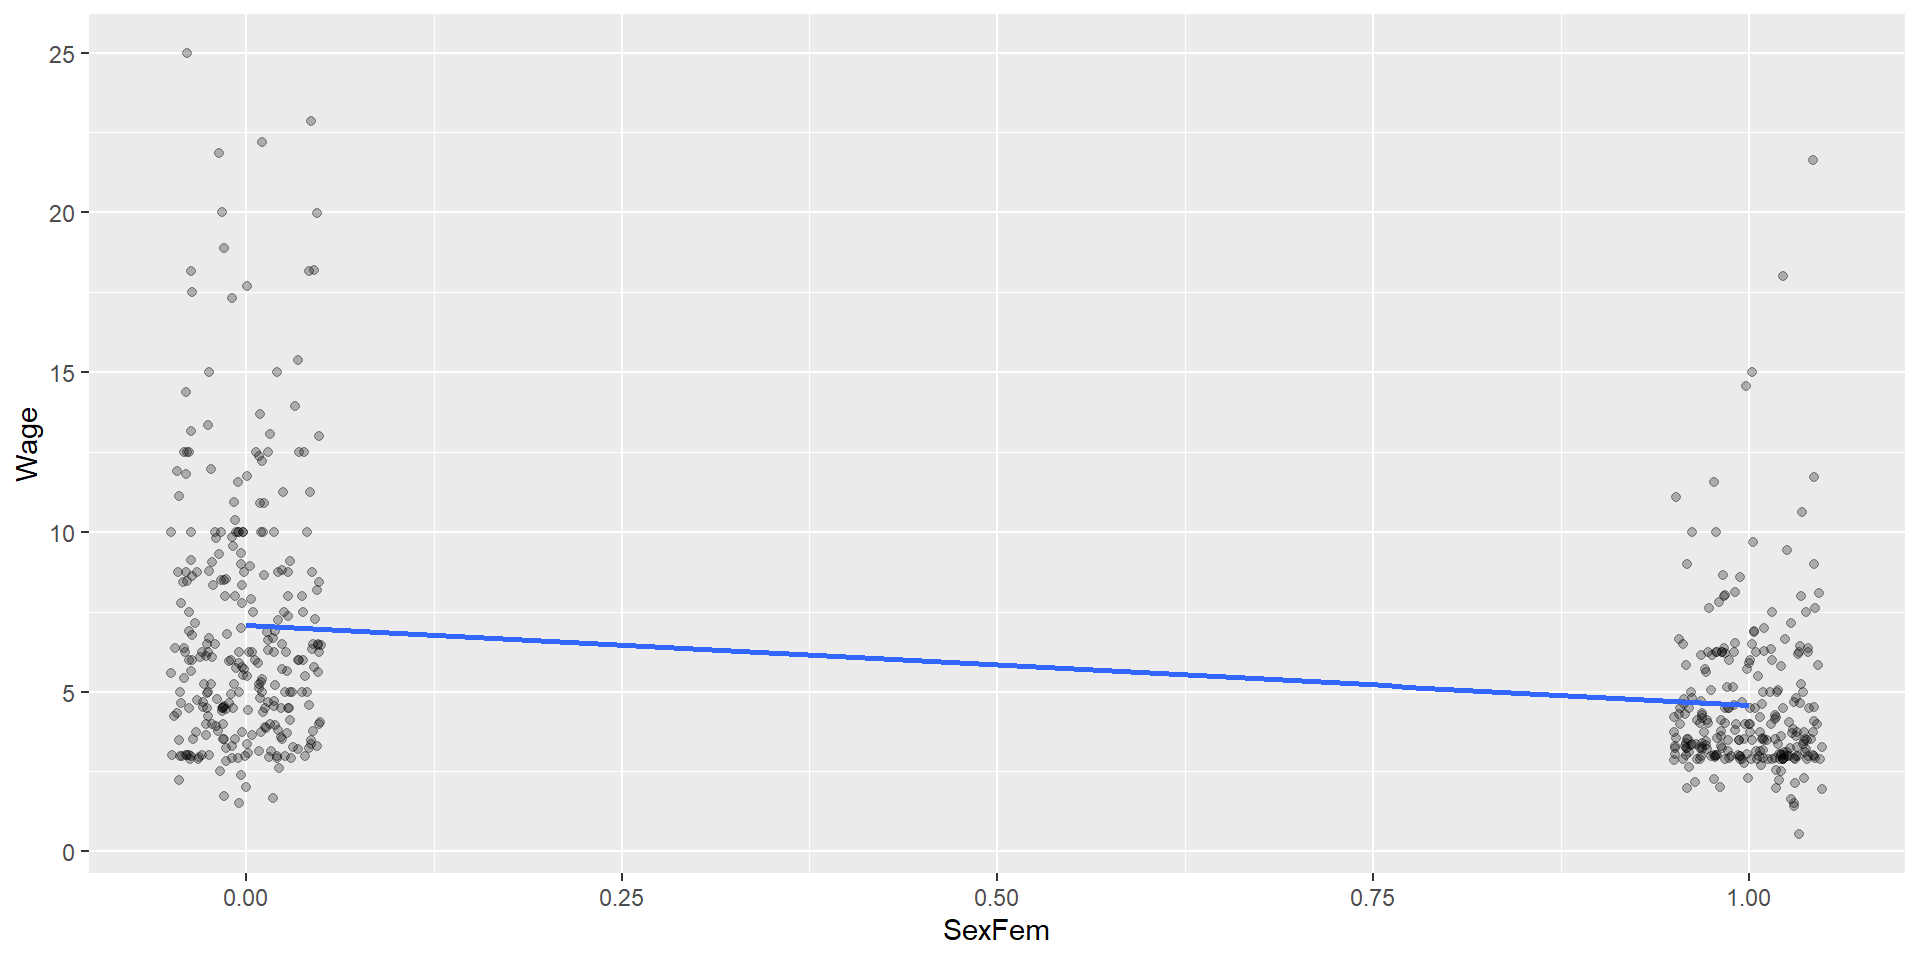
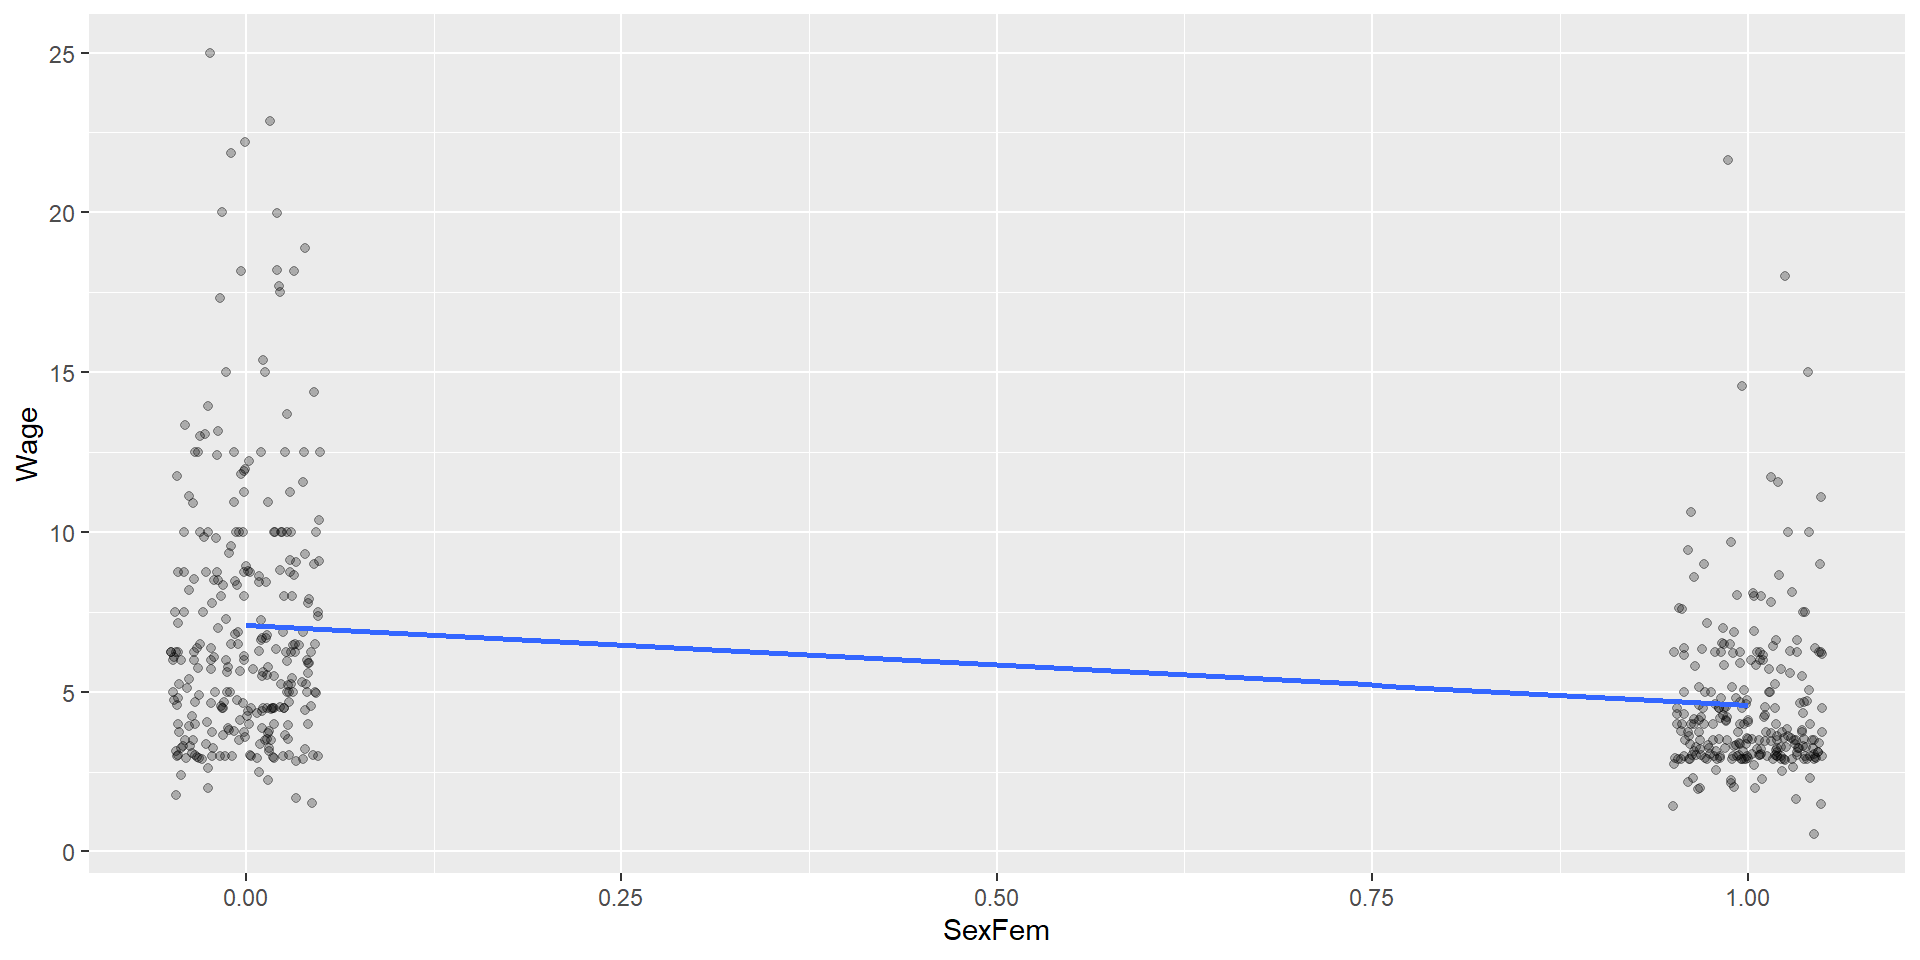
Linear Regression IBM adjusted for univar

diff --git a/LinRegrDummiesIBM/LinRegrDummiesIBM.html b/LinRegrDummiesIBM/LinRegrDummiesIBM.html
@@ -307,6 +307,7 @@
     }
     .reveal .slide:not(.center) {
       height: 100%;
+      overflow-y: auto;
     }
     .reveal .slide.scrollable {
       overflow-y: auto;
@@ -512,12 +513,25 @@
 
 </div>
 <img data-src="LinRegrDummiesIBM_files/figure-revealjs/unnamed-chunk-7-1.png" width="960" class="r-stretch"></section>
+<section id="plotting-the-data-with-regression-line-1" class="slide level2">
+<h2>Plotting the Data with Regression Line</h2>
+<div class="cell">
+<details>
+<summary>Code</summary>
+<div class="sourceCode cell-code" id="cb9"><pre class="sourceCode numberSource r number-lines code-with-copy"><code class="sourceCode r"><span id="cb9-1"><a href="#cb9-1"></a><span class="fu">library</span>(tidyverse)</span>
+<span id="cb9-2"><a href="#cb9-2"></a><span class="fu">ggplot</span>(DataWage, <span class="fu">aes</span>(<span class="at">x=</span>SexFem, <span class="at">y=</span>Wage))<span class="sc">+</span></span>
+<span id="cb9-3"><a href="#cb9-3"></a>  <span class="fu">geom_point</span>()<span class="sc">+</span></span>
+<span id="cb9-4"><a href="#cb9-4"></a>  <span class="fu">geom_smooth</span>(<span class="at">method =</span> <span class="st">"lm"</span>, <span class="at">se=</span><span class="cn">FALSE</span>)</span></code><button title="Copy to Clipboard" class="code-copy-button"><i class="bi"></i></button></pre></div>
+</details>
+
+</div>
+<img data-src="LinRegrDummiesIBM_files/figure-revealjs/unnamed-chunk-8-1.png" width="960" class="r-stretch"></section>
 <section id="regression-sex-discrimination" class="title-slide slide level1 center">
 <h1>Regression Sex Discrimination</h1>
 <div class="cell">
 <details>
 <summary>Code</summary>
-<div class="sourceCode cell-code" id="cb9"><pre class="sourceCode numberSource r number-lines code-with-copy"><code class="sourceCode r"><span id="cb9-1"><a href="#cb9-1"></a><span class="fu">lm</span>(Wage <span class="sc">~</span> SexFem, <span class="at">data=</span>DataWage)</span></code><button title="Copy to Clipboard" class="code-copy-button"><i class="bi"></i></button></pre></div>
+<div class="sourceCode cell-code" id="cb10"><pre class="sourceCode numberSource r number-lines code-with-copy"><code class="sourceCode r"><span id="cb10-1"><a href="#cb10-1"></a><span class="fu">lm</span>(Wage <span class="sc">~</span> SexFem, <span class="at">data=</span>DataWage)</span></code><button title="Copy to Clipboard" class="code-copy-button"><i class="bi"></i></button></pre></div>
 </details>
 <div class="cell-output cell-output-stdout">
 <pre><code>
@@ -548,9 +562,9 @@ Coefficients:
 <div class="cell">
 <details>
 <summary>Code</summary>
-<div class="sourceCode cell-code" id="cb11"><pre class="sourceCode numberSource r number-lines code-with-copy"><code class="sourceCode r"><span id="cb11-1"><a href="#cb11-1"></a><span class="fu">library</span>(rio)</span>
-<span id="cb11-2"><a href="#cb11-2"></a>DataObserv<span class="ot">=</span><span class="fu">import</span>(<span class="st">"../DataObservAndABTest.xlsx"</span>, <span class="at">sheet =</span> <span class="st">"DataObserv"</span>)</span>
-<span id="cb11-3"><a href="#cb11-3"></a><span class="fu">print</span>(DataObserv)</span></code><button title="Copy to Clipboard" class="code-copy-button"><i class="bi"></i></button></pre></div>
+<div class="sourceCode cell-code" id="cb12"><pre class="sourceCode numberSource r number-lines code-with-copy"><code class="sourceCode r"><span id="cb12-1"><a href="#cb12-1"></a><span class="fu">library</span>(rio)</span>
+<span id="cb12-2"><a href="#cb12-2"></a>DataObserv<span class="ot">=</span><span class="fu">import</span>(<span class="st">"../DataObservAndABTest.xlsx"</span>, <span class="at">sheet =</span> <span class="st">"DataObserv"</span>)</span>
+<span id="cb12-3"><a href="#cb12-3"></a><span class="fu">print</span>(DataObserv)</span></code><button title="Copy to Clipboard" class="code-copy-button"><i class="bi"></i></button></pre></div>
 </details>
 <div class="cell-output cell-output-stdout">
 <pre><code>   EducYears Age NewSignUpPage ConvHours
@@ -574,7 +588,7 @@ Coefficients:
 <div class="cell">
 <details>
 <summary>Code</summary>
-<div class="sourceCode cell-code" id="cb13"><pre class="sourceCode numberSource r number-lines code-with-copy"><code class="sourceCode r"><span id="cb13-1"><a href="#cb13-1"></a><span class="fu">lm</span>(ConvHours<span class="sc">~</span>NewSignUpPage, <span class="at">data=</span>DataObserv)</span></code><button title="Copy to Clipboard" class="code-copy-button"><i class="bi"></i></button></pre></div>
+<div class="sourceCode cell-code" id="cb14"><pre class="sourceCode numberSource r number-lines code-with-copy"><code class="sourceCode r"><span id="cb14-1"><a href="#cb14-1"></a><span class="fu">lm</span>(ConvHours<span class="sc">~</span>NewSignUpPage, <span class="at">data=</span>DataObserv)</span></code><button title="Copy to Clipboard" class="code-copy-button"><i class="bi"></i></button></pre></div>
 </details>
 <div class="cell-output cell-output-stdout">
 <pre><code>
@@ -593,10 +607,10 @@ Coefficients:
 <div class="cell">
 <details>
 <summary>Code</summary>
-<div class="sourceCode cell-code" id="cb15"><pre class="sourceCode numberSource r number-lines code-with-copy"><code class="sourceCode r"><span id="cb15-1"><a href="#cb15-1"></a><span class="fu">library</span>(tidyverse)</span>
-<span id="cb15-2"><a href="#cb15-2"></a>DataObserv <span class="sc">|&gt;</span> </span>
-<span id="cb15-3"><a href="#cb15-3"></a>  <span class="fu">group_by</span>(NewSignUpPage) <span class="sc">|&gt;</span> </span>
-<span id="cb15-4"><a href="#cb15-4"></a>  <span class="fu">summarise</span>(<span class="fu">mean</span>(Age), <span class="fu">mean</span>(EducYears))</span></code><button title="Copy to Clipboard" class="code-copy-button"><i class="bi"></i></button></pre></div>
+<div class="sourceCode cell-code" id="cb16"><pre class="sourceCode numberSource r number-lines code-with-copy"><code class="sourceCode r"><span id="cb16-1"><a href="#cb16-1"></a><span class="fu">library</span>(tidyverse)</span>
+<span id="cb16-2"><a href="#cb16-2"></a>DataObserv <span class="sc">|&gt;</span> </span>
+<span id="cb16-3"><a href="#cb16-3"></a>  <span class="fu">group_by</span>(NewSignUpPage) <span class="sc">|&gt;</span> </span>
+<span id="cb16-4"><a href="#cb16-4"></a>  <span class="fu">summarise</span>(<span class="fu">mean</span>(Age), <span class="fu">mean</span>(EducYears))</span></code><button title="Copy to Clipboard" class="code-copy-button"><i class="bi"></i></button></pre></div>
 </details>
 <div class="cell-output cell-output-stdout">
 <pre><code># A tibble: 2 × 3
@@ -612,7 +626,7 @@ Coefficients:
 <div class="cell">
 <details>
 <summary>Code</summary>
-<div class="sourceCode cell-code" id="cb17"><pre class="sourceCode numberSource r number-lines code-with-copy"><code class="sourceCode r"><span id="cb17-1"><a href="#cb17-1"></a><span class="fu">lm</span>(ConvHours<span class="sc">~</span>Age, <span class="at">data=</span>DataObserv)</span></code><button title="Copy to Clipboard" class="code-copy-button"><i class="bi"></i></button></pre></div>
+<div class="sourceCode cell-code" id="cb18"><pre class="sourceCode numberSource r number-lines code-with-copy"><code class="sourceCode r"><span id="cb18-1"><a href="#cb18-1"></a><span class="fu">lm</span>(ConvHours<span class="sc">~</span>Age, <span class="at">data=</span>DataObserv)</span></code><button title="Copy to Clipboard" class="code-copy-button"><i class="bi"></i></button></pre></div>
 </details>
 <div class="cell-output cell-output-stdout">
 <pre><code>
@@ -628,7 +642,7 @@ Coefficients:
 <div class="cell">
 <details>
 <summary>Code</summary>
-<div class="sourceCode cell-code" id="cb19"><pre class="sourceCode numberSource r number-lines code-with-copy"><code class="sourceCode r"><span id="cb19-1"><a href="#cb19-1"></a><span class="fu">lm</span>(ConvHours<span class="sc">~</span>EducYears, <span class="at">data =</span> DataObserv)</span></code><button title="Copy to Clipboard" class="code-copy-button"><i class="bi"></i></button></pre></div>
+<div class="sourceCode cell-code" id="cb20"><pre class="sourceCode numberSource r number-lines code-with-copy"><code class="sourceCode r"><span id="cb20-1"><a href="#cb20-1"></a><span class="fu">lm</span>(ConvHours<span class="sc">~</span>EducYears, <span class="at">data =</span> DataObserv)</span></code><button title="Copy to Clipboard" class="code-copy-button"><i class="bi"></i></button></pre></div>
 </details>
 <div class="cell-output cell-output-stdout">
 <pre><code>
@@ -648,8 +662,8 @@ Coefficients:
 <div class="cell">
 <details>
 <summary>Code</summary>
-<div class="sourceCode cell-code" id="cb21"><pre class="sourceCode numberSource r number-lines code-with-copy"><code class="sourceCode r"><span id="cb21-1"><a href="#cb21-1"></a>DataABTest<span class="ot">=</span><span class="fu">import</span>(<span class="st">"../DataObservAndABTest.xlsx"</span>, <span class="at">sheet =</span> <span class="st">"DataABTest"</span>)</span>
-<span id="cb21-2"><a href="#cb21-2"></a><span class="fu">print</span>(DataABTest)</span></code><button title="Copy to Clipboard" class="code-copy-button"><i class="bi"></i></button></pre></div>
+<div class="sourceCode cell-code" id="cb22"><pre class="sourceCode numberSource r number-lines code-with-copy"><code class="sourceCode r"><span id="cb22-1"><a href="#cb22-1"></a>DataABTest<span class="ot">=</span><span class="fu">import</span>(<span class="st">"../DataObservAndABTest.xlsx"</span>, <span class="at">sheet =</span> <span class="st">"DataABTest"</span>)</span>
+<span id="cb22-2"><a href="#cb22-2"></a><span class="fu">print</span>(DataABTest)</span></code><button title="Copy to Clipboard" class="code-copy-button"><i class="bi"></i></button></pre></div>
 </details>
 <div class="cell-output cell-output-stdout">
 <pre><code>   Treatment ConvHours
@@ -673,7 +687,7 @@ Coefficients:
 <div class="cell">
 <details>
 <summary>Code</summary>
-<div class="sourceCode cell-code" id="cb23"><pre class="sourceCode numberSource r number-lines code-with-copy"><code class="sourceCode r"><span id="cb23-1"><a href="#cb23-1"></a><span class="fu">lm</span>(<span class="at">data =</span> DataABTest, ConvHours <span class="sc">~</span>Treatment)</span></code><button title="Copy to Clipboard" class="code-copy-button"><i class="bi"></i></button></pre></div>
+<div class="sourceCode cell-code" id="cb24"><pre class="sourceCode numberSource r number-lines code-with-copy"><code class="sourceCode r"><span id="cb24-1"><a href="#cb24-1"></a><span class="fu">lm</span>(<span class="at">data =</span> DataABTest, ConvHours <span class="sc">~</span>Treatment)</span></code><button title="Copy to Clipboard" class="code-copy-button"><i class="bi"></i></button></pre></div>
 </details>
 <div class="cell-output cell-output-stdout">
 <pre><code>

diff --git a/LinRegrIbm/LinRegrIbm.html b/LinRegrIbm/LinRegrIbm.html
@@ -307,6 +307,7 @@
     }
     .reveal .slide:not(.center) {
       height: 100%;
+      overflow-y: auto;
     }
     .reveal .slide.scrollable {
       overflow-y: auto;
@@ -756,14 +757,14 @@ MSE &amp; = &amp; \frac{1}{5}\left[ (\underbrace{\overbrace{\beta_1\cdot 2+\beta
     Price  Sqft
     &lt;int&gt; &lt;int&gt;
  1 265000  1400
- 2 242025  1400
- 3 207000  1980
- 4 226500  1560
- 5 295000  1230
- 6 175000   670
- 7 211000  2100
- 8 270000  1010
- 9 260000  2160
+ 2 157340   900
+ 3 242025  1400
+ 4 280000  1700
+ 5 207000  1980
+ 6 226500  1560
+ 7 260000  2390
+ 8 211000  2100
+ 9 270000  1010
 10 280000  1590
 # ℹ 339 more rows</code></pre>
 </div>
@@ -772,18 +773,18 @@ MSE &amp; = &amp; \frac{1}{5}\left[ (\underbrace{\overbrace{\beta_1\cdot 2+\beta
 <div class="cell">
 <div class="cell-output cell-output-stdout">
 <pre><code># A tibble: 151 × 2
-    Price  Sqft
-    &lt;int&gt; &lt;int&gt;
- 1 394500  3002
- 2 735000  2340
- 3 157340   900
- 4 560000  1390
- 5 775000  2030
- 6 339950  2390
- 7 280000  1700
- 8 510000  2170
- 9 340000  1740
-10 325000  1730
+     Price  Sqft
+     &lt;int&gt; &lt;int&gt;
+ 1 1300000  4380
+ 2  735000  2340
+ 3  633000  2020
+ 4  339950  2390
+ 5  510000  2170
+ 6  300000   930
+ 7  314963   890
+ 8  295000  1230
+ 9  640000  2940
+10  265000  1010
 # ℹ 141 more rows</code></pre>
 </div>
 </div>
